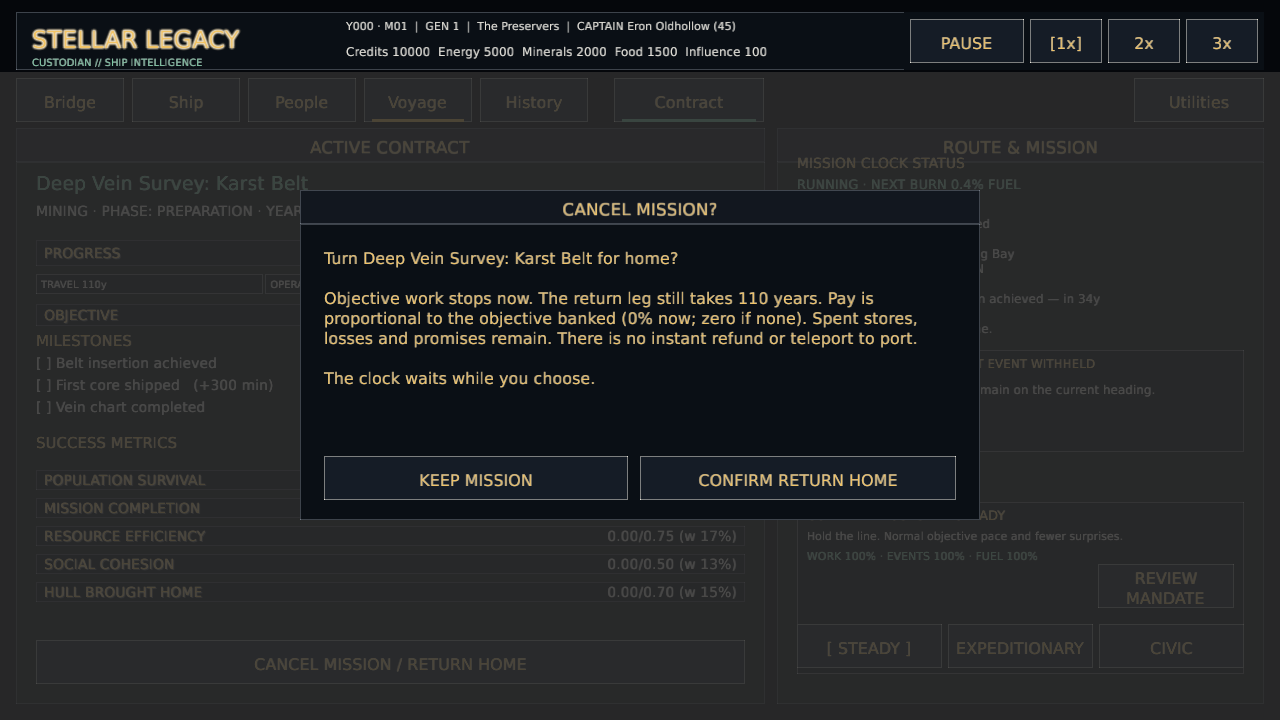
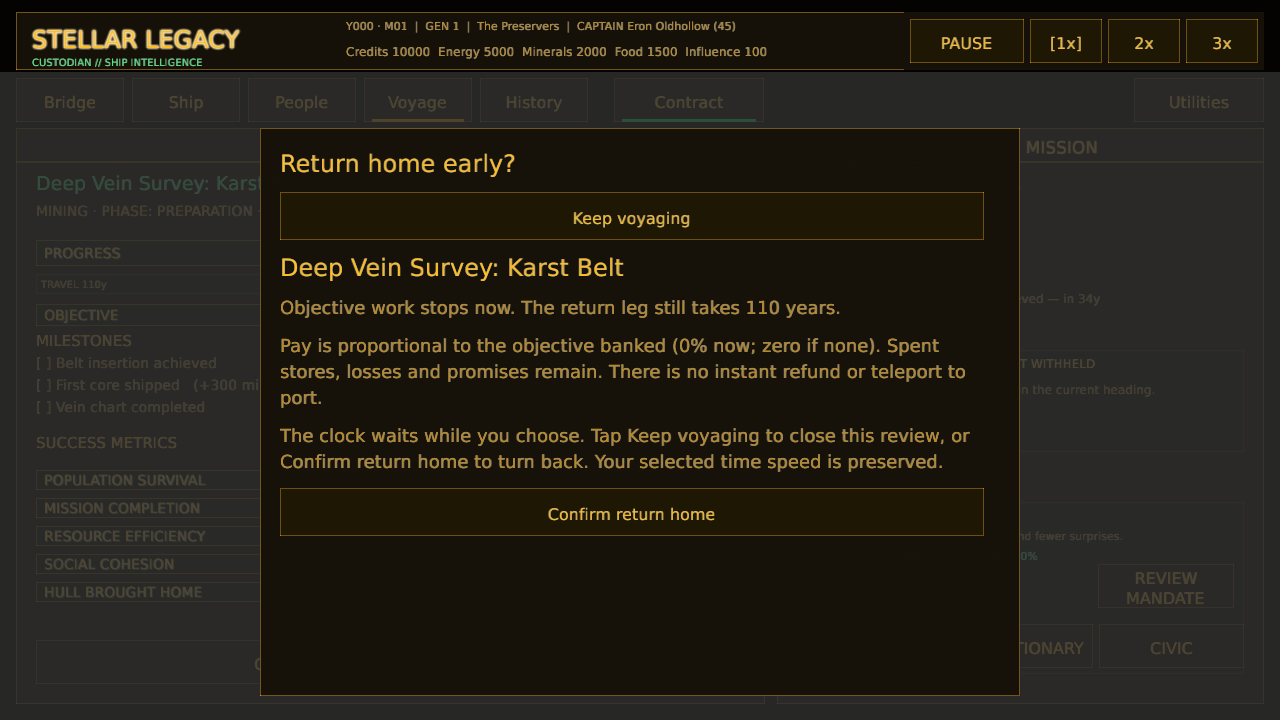
The council releases the clock when its review closes (return-home review UX)
The phone return review could leave its pause flag set after navigation,
freezing the voyage without a visible reason. Own its lifetime in action
handling and release the hold on dismissal, navigation, menu exit or return.
Share a scrolling consequence review across desktop and phone so resizing
keeps the decision visible and enlarged text can reach both choices.

The command and review share early-return eligibility. Verified the review
lifetime regression, 541 unit tests, source-size check and warning-free
Clippy. Desktop and phone captures include enlarged text. The no-argument
publisher passed Preview deployment and packaged Windows/WebGL smoke checks.
Full human voyage acceptance remains open.

diff --git a/src/ui/mission.rs b/src/ui/mission.rs
@@ -2,7 +2,7 @@
 use crate::ui::{term, term_button, term_panel, GameplayCtx, UiAction};
 use macroquad::prelude::*;
 use macroquad_toolkit::prelude::*;
-use macroquad_toolkit::ui::{draw_text_block, draw_ui_text_ex, occlude, wrap_text_ex, RectExt};
+use macroquad_toolkit::ui::{draw_ui_text_ex, occlude, wrap_text_ex, RectExt};
 
 pub fn draw_selected(
     ctx: &GameplayCtx<'_>,
@@ -61,41 +61,57 @@ pub fn draw_selected(
     );
 }
 
-pub fn draw_abort(ctx: &GameplayCtx<'_>, pointer: Pointer, actions: &mut Vec<UiAction>) {
-    let Some(contract) = &ctx.sim.contract else {
-        ctx.abort_confirm.set(false);
+pub(crate) fn build_abort(ctx: &GameplayCtx<'_>, form: &mut crate::ui::mobile::form::Form) {
+    form.heading("Return home early?");
+    form.action("Keep voyaging", true, UiAction::DismissReturnHome);
+    if !crate::simulation::contract::can_return_home(ctx.sim) {
+        form.text("An early return is no longer available. Close this review to continue.");
         return;
-    };
-    let Some(index) = contract.first_return_index() else {
-        ctx.abort_confirm.set(false);
-        return;
-    };
+    }
+    let contract = ctx.sim.contract.as_ref().unwrap();
+    let index = contract.first_return_index().unwrap();
     let years: u32 = contract
         .phases
         .iter()
         .skip(index)
         .map(|phase| phase.years)
         .sum();
-    let panel = Rect::new(300.0, 190.0, 680.0, 330.0);
-    draw_rectangle(0.0, 72.0, 1280.0, 648.0, Color::new(0.0, 0.0, 0.0, 0.82));
-    occlude(Rect::new(0.0, 72.0, 1280.0, 648.0));
-    term_panel(panel, Some("CANCEL MISSION?"));
-    draw_text_block(&format!("Turn {} for home?\n\nObjective work stops now. The return leg still takes {} years. Pay is proportional to the objective banked ({:.0}% now; zero if none). Spent stores, losses and promises remain. There is no instant refund or teleport to port.\n\nThe clock waits while you choose.", contract.name, years, contract.objective_fraction() * 100.0), panel.x + 24.0, panel.y + 58.0, panel.w - 48.0, 196.0, 16.0, 4.0, term::primary());
-    let y = panel.bottom() - 64.0;
-    if term_button(
-        Rect::new(panel.x + 24.0, y, 304.0, 44.0),
-        "KEEP MISSION",
-        true,
+    form.heading(&contract.name);
+    form.text(&format!(
+        "Objective work stops now. The return leg still takes {years} years."
+    ));
+    form.text(&format!("Pay is proportional to the objective banked ({:.0}% now; zero if none). Spent stores, losses and promises remain. There is no instant refund or teleport to port.", contract.objective_fraction() * 100.0));
+    form.text("The clock waits while you choose. Tap Keep voyaging to close this review, or Confirm return home to turn back. Your selected time speed is preserved.");
+    form.action("Confirm return home", true, UiAction::AbortMission);
+}
+
+pub fn draw_abort(ctx: &GameplayCtx<'_>, pointer: Pointer, actions: &mut Vec<UiAction>) {
+    let width = crate::ui::logical_width();
+    let height = crate::ui::logical_height();
+    let shade = Rect::new(0.0, 72.0, width, height - 72.0);
+    draw_rectangle(
+        shade.x,
+        shade.y,
+        shade.w,
+        shade.h,
+        Color::new(0.0, 0.0, 0.0, 0.82),
+    );
+    occlude(shade);
+    let panel_width = (width - 48.0).min(760.0);
+    let panel = Rect::new(
+        (width - panel_width) * 0.5,
+        128.0,
+        panel_width,
+        height - 152.0,
+    );
+    term_panel(panel, None);
+    let mut form = crate::ui::mobile::form::Form::new();
+    build_abort(ctx, &mut form);
+    form.draw(
+        panel.inset(20.0),
+        ctx.presentation,
         pointer,
-    ) {
-        ctx.abort_confirm.set(false);
-    }
-    if term_button(
-        Rect::new(panel.x + 340.0, y, 316.0, 44.0),
-        "CONFIRM RETURN HOME",
-        true,
-        pointer,
-    ) {
-        actions.push(UiAction::AbortMission);
-    }
+        "return-home-review",
+        actions,
+    );
 }

diff --git a/src/ui/mobile.rs b/src/ui/mobile.rs
@@ -104,6 +104,7 @@ pub fn draw(ctx: &GameplayCtx<'_>) -> Vec<UiAction> {
         control_font,
     ) {
         ctx.presentation.navigation_open.set(false);
+        actions.push(UiAction::DismissReturnHome);
         ctx.presentation
             .utilities
             .set(!ctx.presentation.utilities.get());
@@ -183,7 +184,10 @@ pub fn draw_content(ctx: &GameplayCtx<'_>, view: Rect) -> Vec<UiAction> {
     let mut actions = Vec::new();
     let section = ctx.presentation.mobile_section.borrow().clone();
     let mut form = Form::new();
-    let key = if ctx.presentation.utilities.get() {
+    let key = if ctx.abort_confirm.get() && !ctx.sim.has_pending_decision() {
+        mission::build_abort(ctx, &mut form);
+        "return-home-review".to_owned()
+    } else if ctx.presentation.utilities.get() {
         form.heading("Utilities");
         for (label, action) in [
             ("Save game", UiAction::SaveGame),
@@ -207,9 +211,7 @@ pub fn draw_content(ctx: &GameplayCtx<'_>, view: Rect) -> Vec<UiAction> {
                 ship::build(ctx, &mut form, &section)
             }
             Screen::CrewDynasty => people::build(ctx, &mut form, &section),
-            Screen::Drydock | Screen::Contract | Screen::Market => {
-                voyage::build(ctx, &mut form, &section)
-            }
+            Screen::Drydock | Screen::Contract | Screen::Market => voyage::build(ctx, &mut form),
             Screen::Chronicle => history::build(ctx, &mut form, &section),
         }
         format!(

diff --git a/src/ui/mobile/voyage.rs b/src/ui/mobile/voyage.rs
@@ -1,7 +1,7 @@
 use super::*;
 use crate::simulation::{contract, market};
 
-pub(super) fn build(ctx: &GameplayCtx<'_>, f: &mut Form, section: &str) {
+pub(super) fn build(ctx: &GameplayCtx<'_>, f: &mut Form) {
     let sim = ctx.sim;
     if sim.contract.is_none() {
         f.actions(
@@ -36,21 +36,8 @@ pub(super) fn build(ctx: &GameplayCtx<'_>, f: &mut Form, section: &str) {
             ));
         }
         posture(ctx, f);
-        if section == "abort" {
-            ctx.abort_confirm.set(true);
-            let years = c
-                .first_return_index()
-                .map_or(0, |i| c.phases.iter().skip(i).map(|p| p.years).sum::<u32>());
-            f.text(&format!("Objective work stops now. The return leg still takes {years} years. Pay is proportional to the objective banked ({:.0}% now). Spent stores, losses and promises remain. There is no instant refund or teleport to port. The clock waits while you choose.",c.objective_fraction()*100.0));
-            f.action("Confirm return home", true, UiAction::AbortMission);
-            f.section("Keep voyaging", "");
-        } else {
-            ctx.abort_confirm.set(false);
-            if c.first_return_index()
-                .is_some_and(|index| c.phase_index < index)
-            {
-                f.section("Review return home", "abort");
-            }
+        if contract::can_return_home(sim) {
+            f.action("Review return home", true, UiAction::ReviewReturnHome);
         }
         return;
     }

diff --git a/src/game/actions.rs b/src/game/actions.rs
@@ -6,6 +6,7 @@
 mod authority;
 mod completion;
 mod decision;
+mod mission;
 mod projects;
 
 use super::Game;
@@ -22,6 +23,12 @@ use macroquad_toolkit::rng;
 
 impl Game {
     pub(super) fn apply_action(&mut self, action: UiAction) -> Option<StateTransition> {
+        self.abort_confirm.set(match &self.state {
+            GameState::Gameplay(gameplay) => {
+                mission::review_after_action(self.abort_confirm.get(), &action, &gameplay.sim)
+            }
+            _ => false,
+        });
         match action {
             // ---- Menu ----
             UiAction::SelectLegacy(index) => {
@@ -219,8 +226,12 @@ impl Game {
             UiAction::ResolveAuthority(choice) => {
                 self.apply_authority_action(UiAction::ResolveAuthority(choice))
             }
+            UiAction::ReviewReturnHome => {
+                self.presentation.utilities.set(false);
+                None
+            }
+            UiAction::DismissReturnHome => None,
             UiAction::AbortMission => {
-                self.abort_confirm.set(false);
                 if let GameState::Gameplay(gameplay) = &mut self.state {
                     let sim = &mut gameplay.sim;
                     // The council turns the ship for home; pay will be prorated

diff --git a/src/game/actions/mission/tests.rs b/src/game/actions/mission/tests.rs
@@ -1,0 +1,41 @@
+use super::*;
+use crate::{data::GameData, state::Screen};
+
+#[test]
+fn leaving_the_return_review_releases_its_clock_hold_without_changing_speed() {
+    let data = GameData::load().unwrap();
+    let mut sim = SimState::new_campaign(
+        &data,
+        "preservers",
+        5,
+        &crate::state::sim::founding_faction_ids(&data),
+    );
+    assert!(!review_after_action(
+        false,
+        &UiAction::ReviewReturnHome,
+        &sim
+    ));
+    sim.contract = Some(contract::start_contract(
+        data.contracts.get("deep_vein_survey").unwrap(),
+        &sim,
+    ));
+    let speed = sim.speed;
+    let open = review_after_action(false, &UiAction::ReviewReturnHome, &sim);
+    assert!(open);
+    for exit in [
+        UiAction::DismissReturnHome,
+        UiAction::SelectScreen(Screen::Dashboard),
+        UiAction::SelectScreen(Screen::Contract),
+        UiAction::AbortMission,
+        UiAction::ToMenu,
+    ] {
+        assert!(!review_after_action(open, &exit, &sim));
+        assert_eq!(sim.speed, speed);
+    }
+    assert!(contract::jump_to_return(&mut sim));
+    assert!(!review_after_action(
+        false,
+        &UiAction::ReviewReturnHome,
+        &sim
+    ));
+}

diff --git a/src/simulation/contract.rs b/src/simulation/contract.rs
@@ -573,11 +573,21 @@ pub fn advance_contract(
     out
 }
 
-/// Turn the ship for home early (W2): jump the contract to the start of its
-/// first Return segment, freezing objective progress where it stands. No-op
-/// without a contract, without a Return segment, or already in/past Return.
-/// Returns whether the ship turned back.
+/// Whether the return leg is still ahead, shared by the review and command.
+pub fn can_return_home(sim: &SimState) -> bool {
+    sim.contract.as_ref().is_some_and(|contract| {
+        contract
+            .first_return_index()
+            .is_some_and(|index| contract.months_elapsed < contract.segment_start(index))
+    })
+}
+
+/// Jump to the first Return segment, freezing objective progress where it
+/// stands. No-op without an available early return.
 pub fn jump_to_return(sim: &mut SimState) -> bool {
+    if !can_return_home(sim) {
+        return false;
+    }
     let Some(contract) = sim.contract.as_mut() else {
         return false;
     };

diff --git a/src/ui/contract_systems.rs b/src/ui/contract_systems.rs
@@ -233,14 +233,11 @@ fn draw_active(ctx: &GameplayCtx<'_>, area: Rect, pointer: Pointer, actions: &mu
 
     // [ TURN BACK ] (W2): available only underway (Travel/Operation), anchored
     // to the panel bottom so it never collides with the growing metric list.
-    let underway = matches!(
-        contract.phase,
-        ContractPhase::Preparation | ContractPhase::Travel | ContractPhase::Operation
-    );
+    let underway = crate::simulation::contract::can_return_home(ctx.sim);
     let abort = Rect::new(content.x, content.bottom() - 44.0, content.w, 44.0);
     if underway {
         if term_button(abort, "CANCEL MISSION / RETURN HOME", true, pointer) {
-            ctx.abort_confirm.set(true);
+            actions.push(UiAction::ReviewReturnHome);
         }
     } else {
         term_button(abort, "— HOMEBOUND —", false, pointer);

diff --git a/src/ui/responsive.rs b/src/ui/responsive.rs
@@ -25,6 +25,7 @@ pub fn draw(ctx: &GameplayCtx<'_>) -> Vec<UiAction> {
         true,
         pointer,
     ) {
+        actions.push(UiAction::DismissReturnHome);
         ctx.presentation
             .utilities
             .set(!ctx.presentation.utilities.get());
@@ -54,6 +55,7 @@ pub fn draw(ctx: &GameplayCtx<'_>) -> Vec<UiAction> {
         && panel.w >= 720.0
         && !blocked
         && !ctx.presentation.utilities.get()
+        && !ctx.abort_confirm.get()
         && !(ctx.tutorial_enabled && ctx.tutorial_open && !ctx.sim.tutorial_dismissed)
     {
         draw_bridge(ctx, panel.inset(12.0), &mut actions);

diff --git a/src/game/actions/mission.rs b/src/game/actions/mission.rs
@@ -1,0 +1,16 @@
+//! Return-home review lifetime belongs to action handling, never rendering.
+use crate::{simulation::contract, state::SimState, ui::UiAction};
+
+pub(super) fn review_after_action(open: bool, action: &UiAction, sim: &SimState) -> bool {
+    match action {
+        UiAction::ReviewReturnHome => !sim.has_pending_decision() && contract::can_return_home(sim),
+        UiAction::DismissReturnHome
+        | UiAction::AbortMission
+        | UiAction::SelectScreen(_)
+        | UiAction::ToMenu => false,
+        _ => open,
+    }
+}
+
+#[cfg(test)]
+mod tests;

diff --git a/src/ui.rs b/src/ui.rs
@@ -125,6 +125,8 @@ pub enum UiAction {
     /// Set the voyage-wide operating philosophy shown on the CONTRACT screen.
     SetPosture(CommandPosture),
     /// Turn the current mission for home early (W2). Only emitted underway.
+    ReviewReturnHome,
+    DismissReturnHome,
     AbortMission,
     ResolveEvent(usize),
     ResolveDilemma(usize),

diff --git a/src/game/capture_scenes.rs b/src/game/capture_scenes.rs
@@ -734,7 +734,6 @@ impl Game {
             _ => 0,
         });
         *self.presentation.mobile_section.borrow_mut() = match scene {
-            "abort" => "abort",
             "people_officers" => "officers",
             "people_factions" | "crew_recruitment" => "factions",
             "people_council" => "council",

diff --git a/gdd.md b/gdd.md
@@ -275,6 +275,9 @@ scale or limited height, a persistent Navigate control opens the five destinatio
 as a scrollable list; Back returns to the current screen. The phone
 header and time controls reserve space for the selected text size.
 Council choices select a response before explicit Commit; full consequences scroll.
+Return-home reviews share a scrolling consequence summary across display sizes.
+Keep voyaging, station navigation and Utilities close the review and release its
+temporary clock hold; the selected time speed is preserved.
 The guide offers FINISH only after all lessons, including the council response,
 are complete. Its completion message is visible on desktop and phone; advancing
 a lesson returns a scrolling reading view to the next instruction.
